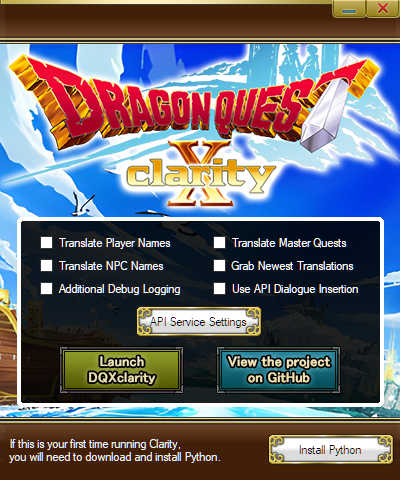
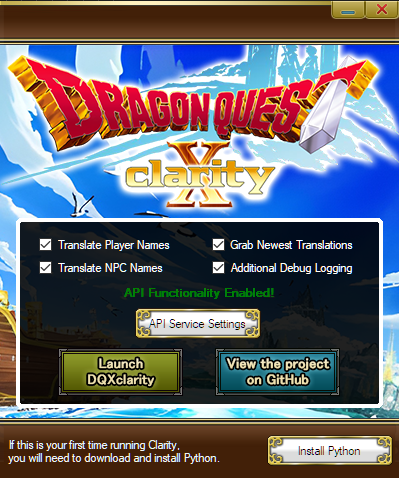
Clarified stuff with new GUI

diff --git a/pages/utilities/translation_tools.html b/pages/utilities/translation_tools.html
@@ -452,6 +452,7 @@
                             names.
                           </p>
                         </li>
+                        <br/>
                         <li>
                           <p>
                             <strong>Translate NPC Names:</strong> Allows Clarity
@@ -459,6 +460,7 @@
                             names.
                           </p>
                         </li>
+                        <br/>
                         <li>
                           <p>
                             <strong>Enable Debug Logging:</strong> Logs useful
@@ -467,25 +469,7 @@
                             just leave this unchecked.
                           </p>
                         </li>
-                        <li>
-                          <p>
-                            <strong>Translate Master Quests:</strong> Currently
-                            disabled until further notice. Checking this will
-                            not do anything.
-                          </p>
-                        </li>
-
-                        <li>
-                          <p>
-                            <strong>Use API Dialogue Insertion:</strong>
-                            Using a translation API (Either DeepL or Google
-                            Translate API), inject translations directly into
-                            game dialogue. <strong>See the section above how to set this
-                            up!</strong> Once you have an API key, fill in the appropriate
-                            box and check the box of the service you're using
-                            (do not check both.)
-                          </p>
-                        </li>
+                        <br/>
                         <li>
                           <p>
                             <strong>Grab Newest Translations:</strong>
@@ -493,6 +477,19 @@
                             translation repository.
                           </p>
                         </li>
+                        <br/>
+                        <li>
+                          <p>
+                            <strong>API Service Settings:</strong>
+                            This is where you can set up a translation API (Either DeepL or Google
+                            Translate API), which will inject English translations directly into
+                            game dialogue. <strong>See the section above how to get an API Key!</strong> Once you have an API key, fill in the appropriate
+                            box and check the box of the service you're using
+                            (do not check both.) If your API key is valid, you will
+                            see <strong>API Functionality Enabled!</strong> displayed.
+                          </p>
+                        </li>
+                        <br/>
                         <li>
                           <p>
                             <strong>Install Python:</strong>
@@ -508,8 +505,8 @@
                         For the best English experience, it's recommended to
                         check <strong>Translate Player Names</strong>,
                         <strong>Translate NPC Names</strong>, <strong>Grab
-                          Newest Translations</strong>, and <strong>
-                            Use API Dialogue Insertion</strong>.
+                          Newest Translations</strong>, and have <strong>
+                            API Functionality Enabled</strong>.
                       </p>
                       <br />
 
@@ -517,7 +514,8 @@
                         <strong>
                           Once you are satisfied with your Clarity settings, run 
                           Dragon Quest X. Don't launch Clarity just yet.
-                          The game will take a few seconds to launch.</strong>
+                          The game will take a few seconds to launch. If the 
+                        game is already open, read on.</strong>
                       </p>
                       <br/>
                       <br/>

diff --git a/pages/getting_started.html b/pages/getting_started.html
@@ -796,13 +796,14 @@
 
                       <p>
                         If you've done everything correctly up to this point,
-                        you should see a player profile like the one listed
+                        the game should automatically start and you will see a
+                        black box with yellow text. <strong>Don't press anything
+                          yet!</strong> (When using the launcher from now on,
+                          you should see a player profile like the one listed
                         above. When you create a character in-game, their name
-                        should fill the brackets, signifying it's your account.
-                        <strong
-                          >Congratulations, at this point you're ready to play
-                          the game.</strong
-                        > Before proceeding any further, please check out the
+                        should fill the brackets, signifying it's your account.)
+                        <br>
+                        Now that the game has launched, please go to the
                         <a href="https://dqxabbey.com/pages/utilities/translation_tools.html">
                           translation tools</a> page for instructions on how to translate the game
                         into English.
